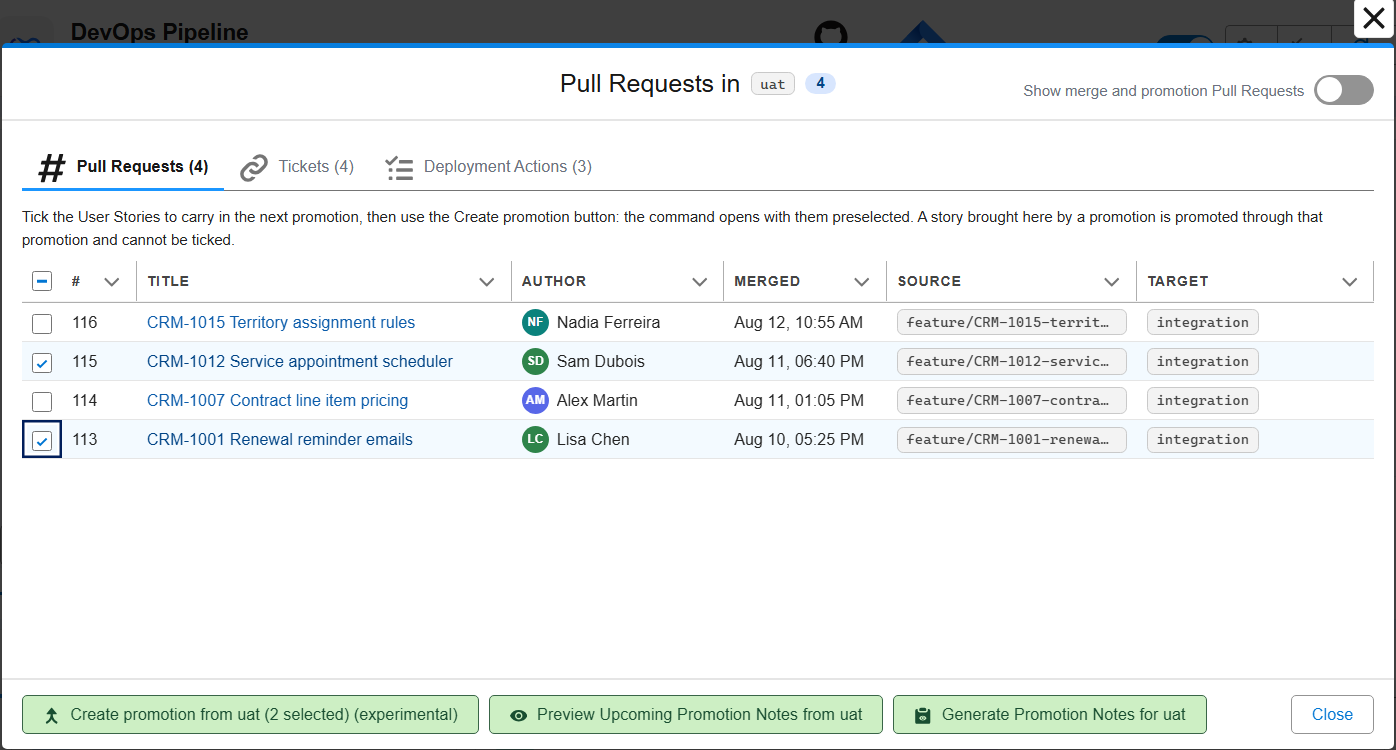
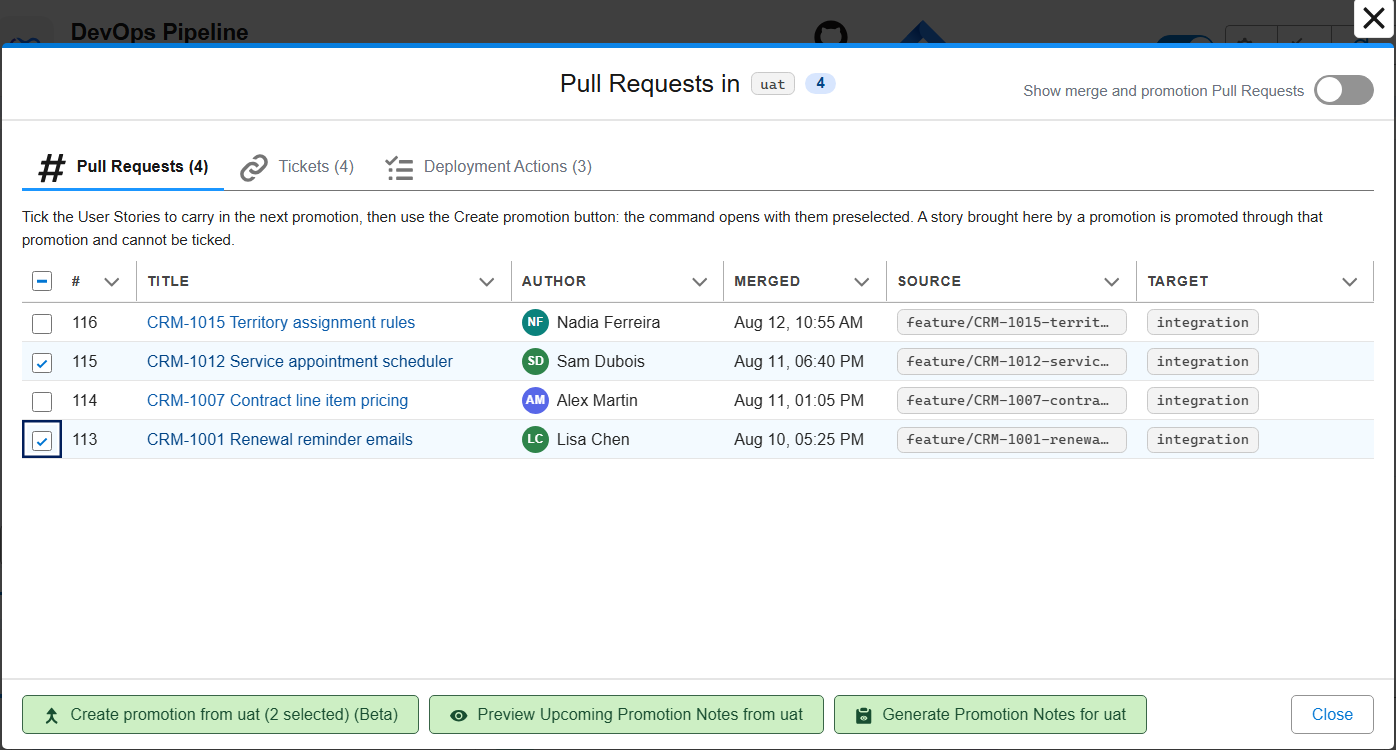
docs: promotion branches move from experimental to Beta (#2232)
* docs(promotion-branches): promotion branches move from experimental to Beta

* docs(promotion-branches): retake the two screenshots that carried the experimental label

* [MegaLinter] Apply linters fixes

---------

Changed region(s): [[0.2464, 0.92, 0.8625, 0.9813]]

diff --git a/docs/schema/sfdx-hardis-json-schema-parameters.html b/docs/schema/sfdx-hardis-json-schema-parameters.html
@@ -10188,9 +10188,9 @@ Example: availableTargetBranches: [preprod, integration] and availableTargetBran
                 d="M4 8a.5.5 0 0 1 .5-.5h5.793L8.146 5.354a.5.5 0 1 1 .708-.708l3 3a.5.5 0 0 1 0 .708l-3 3a.5.5 0 0 1-.708-.708L10.293 8.5H4.5A.5.5 0 0 1 4 8z"
             />
         </svg>
-    <a href="#allowedPromotionSteps" onclick="anchorLink('allowedPromotionSteps')">allowedPromotionSteps</a></div><h4>Allowed promotion steps (experimental)</h4><span class="badge badge-dark value-type">Type: array of object</span><br/>
+    <a href="#allowedPromotionSteps" onclick="anchorLink('allowedPromotionSteps')">allowedPromotionSteps</a></div><h4>Allowed promotion steps (Beta)</h4><span class="badge badge-dark value-type">Type: array of object</span><br/>
 <div class="description collapse" id="collapseDescription_allowedPromotionSteps">
-            <p>Experimental feature. Required as soon as enablePromotionBranches is true.<br />
+            <p>Beta feature. Required as soon as enablePromotionBranches is true.<br />
 Source and target branches a release manager is allowed to assemble a promotion between (ex: only from uat to preprod).<br />
 Every other step is left out of the prompts of sf hardis:project:promotion:create and of the DevOps Pipeline, and naming one anyway fails the command.<br />
 Leave an entry without a target to allow every merge target of that source branch.<br />
@@ -10379,9 +10379,9 @@ While the list is missing, sf hardis:project:promotion:create stops and asks for
                 d="M4 8a.5.5 0 0 1 .5-.5h5.793L8.146 5.354a.5.5 0 1 1 .708-.708l3 3a.5.5 0 0 1 0 .708l-3 3a.5.5 0 0 1-.708-.708L10.293 8.5H4.5A.5.5 0 0 1 4 8z"
             />
         </svg>
-    <a href="#enablePromotionBranches" onclick="anchorLink('enablePromotionBranches')">enablePromotionBranches</a></div><h4>Enable promotion branches (experimental)</h4><span class="badge badge-dark value-type">Type: boolean</span> <span class="badge badge-success default-value">Default: false</span><br/>
+    <a href="#enablePromotionBranches" onclick="anchorLink('enablePromotionBranches')">enablePromotionBranches</a></div><h4>Enable promotion branches (Beta)</h4><span class="badge badge-dark value-type">Type: boolean</span> <span class="badge badge-success default-value">Default: false</span><br/>
 <div class="description collapse" id="collapseDescription_enablePromotionBranches">
-            <p>Experimental feature. Enable promotion branches: a branch named promotion/&lt;source branch>/&lt;target branch>/&lt;YYYY-MM-DD&gt;-&lt;HHMM&gt; (ex: promotion/uat/preprod/2026-09-06-1430) assembled by cherry-picking approved User Stories from a major branch, whose Pull Request declares the carried Pull Requests in a YAML block of its description (promotionPullRequests: [482, 487]). sfdx-hardis then runs their deployment actions, collects their Apex test classes and inherits their custom behaviors. When false (default), promotion branches are ordinary feature branches.</p>
+            <p>Beta feature. Enable promotion branches: a branch named promotion/&lt;source branch>/&lt;target branch>/&lt;YYYY-MM-DD&gt;-&lt;HHMM&gt; (ex: promotion/uat/preprod/2026-09-06-1430) assembled by cherry-picking approved User Stories from a major branch, whose Pull Request declares the carried Pull Requests in a YAML block of its description (promotionPullRequests: [482, 487]). sfdx-hardis then runs their deployment actions, collects their Apex test classes and inherits their custom behaviors. When false (default), promotion branches are ordinary feature branches.</p>
 
         </div>
         <div>

diff --git a/src/commands/hardis/project/promotion/list-candidates.ts b/src/commands/hardis/project/promotion/list-candidates.ts
@@ -22,14 +22,14 @@ Messages.importMessagesDirectoryFromMetaUrl(import.meta.url);
 const messages = Messages.loadMessages('sfdx-hardis', 'org');
 
 export default class PromotionListCandidates extends SfCommand<any> {
-  public static title = 'List the User Stories waiting for promotion (experimental)';
+  public static title = 'List the User Stories waiting for promotion (Beta)';
 
   public static description = `
-## Command Behavior
+## Command Behavior (Beta)
 
-**Experimental feature.** Promotion branches are new and switched off by default; their behavior may still change from feedback.
+**This feature is in Beta.** Promotion branches are switched off by default; their behavior may still change from feedback. Please report any issue or feedback on the [sfdx-hardis GitHub repository](https://github.com/hardisgroupcom/sfdx-hardis/issues).
 
-**Lists the Pull Requests merged into a major branch (ex: uat) and not yet promoted to the next one (ex: preprod), so you can choose the ones a [promotion branch (experimental)](${CONSTANTS.DOC_URL_ROOT}/salesforce-devops-promotion-branches/) will carry.**
+**Lists the Pull Requests merged into a major branch (ex: uat) and not yet promoted to the next one (ex: preprod), so you can choose the ones a [promotion branch (Beta)](${CONSTANTS.DOC_URL_ROOT}/salesforce-devops-promotion-branches/) will carry.**
 
 This is the read-only half of \`sf hardis:project:promotion:create\`: same configuration checks, same candidates, same rules about what is already on its way, but nothing is created, pushed or closed. Run it to know what can be promoted, then pass the numbers you picked to \`hardis:project:promotion:create --pull-requests\`.
 

diff --git a/src/commands/hardis/project/promotion/create.ts b/src/commands/hardis/project/promotion/create.ts
@@ -42,16 +42,16 @@ Messages.importMessagesDirectoryFromMetaUrl(import.meta.url);
 const messages = Messages.loadMessages('sfdx-hardis', 'org');
 
 export default class PromotionCreate extends SfCommand<any> {
-  public static title = 'Create a promotion branch (experimental)';
+  public static title = 'Create a promotion branch (Beta)';
 
   public static description = `
-## Command Behavior
+## Command Behavior (Beta)
 
-**Experimental feature.** Promotion branches are new and switched off by default; their behavior may still change from feedback.
+**This feature is in Beta.** Promotion branches are switched off by default; their behavior may still change from feedback. Please report any issue or feedback on the [sfdx-hardis GitHub repository](https://github.com/hardisgroupcom/sfdx-hardis/issues).
 
 **Assembles a promotion branch: a branch carrying only the approved User Stories of a major branch (ex: uat), so they reach the next major branch (ex: preprod) before the rest of the promotion window.**
 
-This is the only supported way to create a [promotion branch (experimental)](${CONSTANTS.DOC_URL_ROOT}/salesforce-devops-promotion-branches/). The command:
+This is the only supported way to create a [promotion branch (Beta)](${CONSTANTS.DOC_URL_ROOT}/salesforce-devops-promotion-branches/). The command:
 
 - checks that \`enablePromotionBranches: true\` is set in the sfdx-hardis configuration;
 - checks that \`allowedPromotionSteps\` declares the steps promotions may run on (ex: \`- source: uat\` / \`target: preprod\`), and keeps to them: only those source and target branches are offered, and naming another one fails;

diff --git a/src/commands/hardis/project/deploy/smart.ts b/src/commands/hardis/project/deploy/smart.ts
@@ -213,7 +213,7 @@ Deployment actions and selected Apex test classes are scoped to the Pull Request
 
 If the deployment job of a feature branch fails, its actions are not picked up by the next merged Pull Request: re-run the failed deployment job, or move the actions to a new Pull Request.
 
-With \`enablePromotionBranches: true\`, a merge from a [promotion branch (experimental)](${CONSTANTS.DOC_URL_ROOT}/salesforce-devops-promotion-branches/) (named \`promotion/<source>/<target>/<YYYY-MM-DD>-<HHMM>\`, ex: \`promotion/uat/preprod/2026-09-06-1430\`, assembled by cherry-picking approved User Stories) keeps the deployment actions, Apex test classes and custom behaviors (NO_DELTA, PURGE_FLOW_VERSIONS...) of the Pull Requests declared in its description with \`promotionPullRequests: [482, 487]\`.
+With \`enablePromotionBranches: true\`, a merge from a [promotion branch (Beta)](${CONSTANTS.DOC_URL_ROOT}/salesforce-devops-promotion-branches/) (named \`promotion/<source>/<target>/<YYYY-MM-DD>-<HHMM>\`, ex: \`promotion/uat/preprod/2026-09-06-1430\`, assembled by cherry-picking approved User Stories) keeps the deployment actions, Apex test classes and custom behaviors (NO_DELTA, PURGE_FLOW_VERSIONS...) of the Pull Requests declared in its description with \`promotionPullRequests: [482, 487]\`.
 
 After every action runs, its result (✅ success, ❌ failed, 👋 manual) is recorded in a dedicated **"Deployment Actions"** PR comment - ordered by org (integration → uat → preprod → prod) - regardless of \`runOnlyOnceByOrg\`.
 

diff --git a/docs/salesforce-devops-work-on-user-story-deployment-actions.md b/docs/salesforce-devops-work-on-user-story-deployment-actions.md
@@ -140,12 +140,12 @@ Opt out by adding `runOnlyOnceByOrg: false` explicitly on any action that should
 
 The actions collected for a deployment depend on the branch the merged Pull Request comes from. The validation job of a Pull Request applies the same rule to the Pull Request being checked, so the check comment of a feature Pull Request lists only its own actions.
 
-| Merge                                                                                                                                                                               | Scope                                                                |
-|-------------------------------------------------------------------------------------------------------------------------------------------------------------------------------------|----------------------------------------------------------------------|
-| From a feature branch (ex: `feature/my-story` to `integration`)                                                                                                                     | Only the Pull Request that has just been merged                      |
-| Between major branches (ex: `integration` to `uat`)                                                                                                                                 | Every Pull Request merged since the previous merge                   |
-| From a retrofit branch (ex: `retrofit/from-main` to `integration`)                                                                                                                  | Every Pull Request merged since the previous merge                   |
-| From a [promotion branch (experimental)](salesforce-devops-promotion-branches.md) (ex: `promotion/uat/preprod/2026-09-06-1430` to `preprod`), when `enablePromotionBranches` is set | The Pull Requests declared in the promotion Pull Request description |
+| Merge                                                                                                                                                                       | Scope                                                                |
+|-----------------------------------------------------------------------------------------------------------------------------------------------------------------------------|----------------------------------------------------------------------|
+| From a feature branch (ex: `feature/my-story` to `integration`)                                                                                                             | Only the Pull Request that has just been merged                      |
+| Between major branches (ex: `integration` to `uat`)                                                                                                                         | Every Pull Request merged since the previous merge                   |
+| From a retrofit branch (ex: `retrofit/from-main` to `integration`)                                                                                                          | Every Pull Request merged since the previous merge                   |
+| From a [promotion branch (Beta)](salesforce-devops-promotion-branches.md) (ex: `promotion/uat/preprod/2026-09-06-1430` to `preprod`), when `enablePromotionBranches` is set | The Pull Requests declared in the promotion Pull Request description |
 
 - Between major branches, the batch is every Pull Request merged into the source major branch since its last promotion.
 - Into the production branch (which has no promotion target), the batch is every Pull Request carried by the go-live merge itself.

diff --git a/docs/salesforce-devops-retrofit.md b/docs/salesforce-devops-retrofit.md
@@ -48,11 +48,11 @@ ___
 
 Every time something reached production without going through the BUILD branches.
 
-| What happened                                                                                          | What to retrofit                         | When                                                                            |
-|--------------------------------------------------------------------------------------------------------|------------------------------------------|---------------------------------------------------------------------------------|
-| A [hotfix](salesforce-devops-hotfixes.md) was merged into `main`                                       | `main` (or `preprod`) into `integration` | Right after the hotfix is in production                                         |
-| A [promotion branch (experimental)](salesforce-devops-promotion-branches.md) was merged into `preprod` | `preprod` into `integration`             | Right after the promotion is merged                                             |
-| Somebody changed an org **by hand** (which must never happen)                                          | The change, as a User Story              | As soon as you notice, see [below](#manual-retrofit-of-a-change-made-in-an-org) |
+| What happened                                                                                  | What to retrofit                         | When                                                                            |
+|------------------------------------------------------------------------------------------------|------------------------------------------|---------------------------------------------------------------------------------|
+| A [hotfix](salesforce-devops-hotfixes.md) was merged into `main`                               | `main` (or `preprod`) into `integration` | Right after the hotfix is in production                                         |
+| A [promotion branch (Beta)](salesforce-devops-promotion-branches.md) was merged into `preprod` | `preprod` into `integration`             | Right after the promotion is merged                                             |
+| Somebody changed an org **by hand** (which must never happen)                                  | The change, as a User Story              | As soon as you notice, see [below](#manual-retrofit-of-a-change-made-in-an-org) |
 
 Do it **right away** in every case. A retrofit left for later is a conflict that grows: the BUILD branches keep moving on top of metadata that is already out of date in production.
 
@@ -136,7 +136,7 @@ ___
 ## See also
 
 - [Hotfixes](salesforce-devops-hotfixes.md): ship an urgent fix to production through the RUN stream.
-- [Promotion branches (experimental)](salesforce-devops-promotion-branches.md): ship the approved stories of `uat` without waiting for the rest.
+- [Promotion branches (Beta)](salesforce-devops-promotion-branches.md): ship the approved stories of `uat` without waiting for the rest.
 - [Deployment actions](salesforce-devops-work-on-user-story-deployment-actions.md): what runs around a deployment, and the scope each kind of merge gets.
 
 <!-- training-links:start -->

diff --git a/docs/salesforce-agentic-automation.md b/docs/salesforce-agentic-automation.md
@@ -132,8 +132,8 @@ The table below lists every sfdx-hardis command that supports `--agent`. Click t
 | [**hardis:work:resetselection**](hardis/work/resetselection.md)                             | Soft-reset staged commits to re-evaluate which changes go into the Pull Request                                                                                                     |
 | [**hardis:work:save**](hardis/work/save.md)                                                 | Clean metadata, update `package.xml` / `destructiveChanges.xml`, commit, and push. Optional: `--targetbranch`, `--noclean`, `--nogit`                                               |
 | [**hardis:work:backpromote**](hardis/work/backpromote.md)                                   | Bring into a developer sandbox what was merged in the parent branch since the last backpromote (Beta). Replaces `hardis:work:refresh`. Use `--auto` to decide everything from flags |
-| [**hardis:project:promotion:list-candidates**](hardis/project/promotion/list-candidates.md) | List the User Stories that could be promoted from a major branch, read-only, with `--source-branch` and `--json`. Creates and closes nothing (experimental)                         |
-| [**hardis:project:promotion:create**](hardis/project/promotion/create.md)                   | Assemble a promotion branch carrying only the chosen User Stories, and open its Pull Request, with `--agent --source-branch --pull-requests` (experimental)                         |
+| [**hardis:project:promotion:list-candidates**](hardis/project/promotion/list-candidates.md) | List the User Stories that could be promoted from a major branch, read-only, with `--source-branch` and `--json`. Creates and closes nothing (Beta)                                 |
+| [**hardis:project:promotion:create**](hardis/project/promotion/create.md)                   | Assemble a promotion branch carrying only the chosen User Stories, and open its Pull Request, with `--agent --source-branch --pull-requests` (Beta)                                 |
 | [**hardis:doc:release-notes**](hardis/doc/release-notes.md)                                 | Generate release notes with tickets, Pull Requests, metadata changes, deployment actions, and AI summary using `--agent --mode post --target-branch main`                           |
 | [**hardis:doc:dora-report**](hardis/doc/dora-report.md)                                     | Generate a DORA metrics report (Deployment Frequency, Lead Time, Change Failure Rate, MTTR, Rework Rate) with `--agent --target-org`                                                |
 | [**hardis:project:function:create**](hardis/project/function/create.md)                     | Declare a node, python or bash script as a deployment action type, with `--id --label --runtime --script --inputs --outputs`                                                        |

diff --git a/docs/salesforce-devops-agent-skills.md b/docs/salesforce-devops-agent-skills.md
@@ -679,8 +679,8 @@ These have their own `--agent` mode and their own guide. They are listed here so
 | Command                                    | What it does                                                                                                                                                                                                                                 | Guide                                                         |
 |--------------------------------------------|----------------------------------------------------------------------------------------------------------------------------------------------------------------------------------------------------------------------------------------------|---------------------------------------------------------------|
 | `hardis:work:backpromote`                  | Brings into a developer sandbox what was merged in the parent branch since the last backpromote, with one decision per file that differs. `--auto` takes every decision from the flags (Beta). Replaces the deprecated `hardis:work:refresh` | [Backpromote](salesforce-devops-backpromote.md)               |
-| `hardis:project:promotion:list-candidates` | Lists, read-only, the User Stories that could be promoted from a major branch. Creates, pushes and closes nothing, so it is the safe one to call first (experimental)                                                                        | [Promotion branches](salesforce-devops-promotion-branches.md) |
-| `hardis:project:promotion:create`          | Assembles a promotion branch carrying only the chosen User Stories and opens its Pull Request (experimental)                                                                                                                                 | [Promotion branches](salesforce-devops-promotion-branches.md) |
+| `hardis:project:promotion:list-candidates` | Lists, read-only, the User Stories that could be promoted from a major branch. Creates, pushes and closes nothing, so it is the safe one to call first (Beta)                                                                                | [Promotion branches](salesforce-devops-promotion-branches.md) |
+| `hardis:project:promotion:create`          | Assembles a promotion branch carrying only the chosen User Stories and opens its Pull Request (Beta)                                                                                                                                         | [Promotion branches](salesforce-devops-promotion-branches.md) |
 
 ---
 

diff --git a/.claude/skills/promotion-branches/SKILL.md b/.claude/skills/promotion-branches/SKILL.md
@@ -4,7 +4,7 @@ description: How the promotion branches feature works (enablePromotionBranches, 
 user-invocable: false
 ---
 
-# Promotion branches (experimental)
+# Promotion branches (Beta)
 
 A **promotion branch** carries a chosen subset of the User Stories waiting in a major branch to the
 next major branch, ahead of the rest of the promotion window. It is a selective merge: instead of
@@ -16,7 +16,7 @@ Required with it: **`allowedPromotionSteps`**, the source and target branches a 
 may assemble a promotion between (`- source: uat` / `target: preprod`). `promotion:create`
 refuses to run while the list is missing.
 Everything below is inert while it is off, with one exception noted in [Filtering](#filtering-what-moves-the-pull-requests).
-The feature is **experimental** and must be labelled as such in docs and UIs.
+The feature is in **Beta** and must be labelled as such in docs and UIs, the way backpromote is.
 
 User documentation: `docs/salesforce-devops-promotion-branches.md`
 (<https://sfdx-hardis.cloudity.com/salesforce-devops-promotion-branches/>).
@@ -340,5 +340,6 @@ A big project has hundreds of Pull Requests, so:
   in the CLI, the 9 `src/i18n/*.json` in the extension).
 - Any behaviour change: re-run the A/B regression check with the feature **off** before saying it
   is safe. A green unit suite has already missed a flag-off regression once.
-- The feature is experimental: keep the "(experimental)" mention in the docs page, the JSON schema
-  description and the settings UI.
+- The feature is in Beta: keep the "(Beta)" mention in the docs page, the JSON schema description
+  and the settings UI. It moved from "(experimental)" in September 2026, so a new mention is written
+  "(Beta)", capital B, like backpromote.

diff --git a/docs/salesforce-devops-home.md b/docs/salesforce-devops-home.md
@@ -79,7 +79,7 @@ Deploying a User Story is not always just about metadata. With [deployment actio
 
 - [Release Notes](hardis/doc/salesforce-devops-release-notes.md): generated from the Git history, the tickets, the metadata changes and the deployment actions. Markdown, PDF and XLSX outputs, with an optional AI summary.
 - [DORA Metrics](hardis/doc/salesforce-devops-dora-report.md): Deployment Frequency, Lead Time for Changes, Change Failure Rate and MTTR, scored Elite / High / Medium / Low against industry benchmarks.
-- [Promotion branches (experimental)](salesforce-devops-promotion-branches.md): when business signs off story by story and only some of `uat` is approved, ship the approved ones alone. The release manager ticks them in the DevOps Pipeline, the branch is assembled by cherry-pick, and its Pull Request declares what it carries so the deployment actions, Apex test classes and tickets of those stories follow them.
+- [Promotion branches (Beta)](salesforce-devops-promotion-branches.md): when business signs off story by story and only some of `uat` is approved, ship the approved ones alone. The release manager ticks them in the DevOps Pipeline, the branch is assembled by cherry-pick, and its Pull Request declares what it carries so the deployment actions, Apex test classes and tickets of those stories follow them.
 - [Backpromote (Beta)](salesforce-devops-backpromote.md): bring what was merged in a parent branch into a developer's sandbox, with the deployment actions of the merged Pull Requests, a decision for each file that differs in the sandbox, and a history shared through the Pull Request comments.
 
 **Integrations**

diff --git a/docs/hardis/project/deploy/smart.md b/docs/hardis/project/deploy/smart.md
@@ -166,7 +166,7 @@ Deployment actions and selected Apex test classes are scoped to the Pull Request
 
 If the deployment job of a feature branch fails, its actions are not picked up by the next merged Pull Request: re-run the failed deployment job, or move the actions to a new Pull Request.
 
-With `enablePromotionBranches: true`, a merge from a [promotion branch (experimental)](https://sfdx-hardis.cloudity.com/salesforce-devops-promotion-branches/) (named `promotion/<source>/<target>/<YYYY-MM-DD>-<HHMM>`, ex: `promotion/uat/preprod/2026-09-06-1430`, assembled by cherry-picking approved User Stories) keeps the deployment actions, Apex test classes and custom behaviors (NO_DELTA, PURGE_FLOW_VERSIONS...) of the Pull Requests declared in its description with `promotionPullRequests: [482, 487]`.
+With `enablePromotionBranches: true`, a merge from a [promotion branch (Beta)](https://sfdx-hardis.cloudity.com/salesforce-devops-promotion-branches/) (named `promotion/<source>/<target>/<YYYY-MM-DD>-<HHMM>`, ex: `promotion/uat/preprod/2026-09-06-1430`, assembled by cherry-picking approved User Stories) keeps the deployment actions, Apex test classes and custom behaviors (NO_DELTA, PURGE_FLOW_VERSIONS...) of the Pull Requests declared in its description with `promotionPullRequests: [482, 487]`.
 
 After every action runs, its result (✅ success, ❌ failed, 👋 manual) is recorded in a dedicated **"Deployment Actions"** PR comment - ordered by org (integration → uat → preprod → prod) - regardless of `runOnlyOnceByOrg`.
 

diff --git a/docs/salesforce-devops-release-home.md b/docs/salesforce-devops-release-home.md
@@ -20,7 +20,7 @@ DevOps practices work best when one or two team members take the role of **relea
 - [**Deploy to major orgs**](salesforce-devops-deploy-major-branches.md): promote the changes from `integration` to `uat`, `preprod` and production with Pull Requests between major branches.
 - [**Handle hotfixes**](salesforce-devops-hotfixes.md): ship an urgent fix to production through the RUN stream.
 - [**Retrofit**](salesforce-devops-retrofit.md): bring what reached production back into the BUILD branches, so the next version does not undo it.
-- [**Assemble a promotion branch** (experimental)](salesforce-devops-promotion-branches.md): when only some of the User Stories of `uat` are approved, ship them alone without losing their deployment actions.
+- [**Assemble a promotion branch** (Beta)](salesforce-devops-promotion-branches.md): when only some of the User Stories of `uat` are approved, ship them alone without losing their deployment actions.
 - [**Generate Release Notes**](hardis/doc/salesforce-devops-release-notes.md): document the tickets, Pull Requests, metadata changes, deployment actions and contributors of a release.
 - [**Follow DORA Metrics**](hardis/doc/salesforce-devops-dora-report.md): measure deployment frequency, lead time, change failure rate and time to restore.
 - [**Configure the project**](salesforce-devops-config-home.md): package.xml, overwrite management, delta deployments, automated cleaning and the other `.sfdx-hardis.yml` settings.
